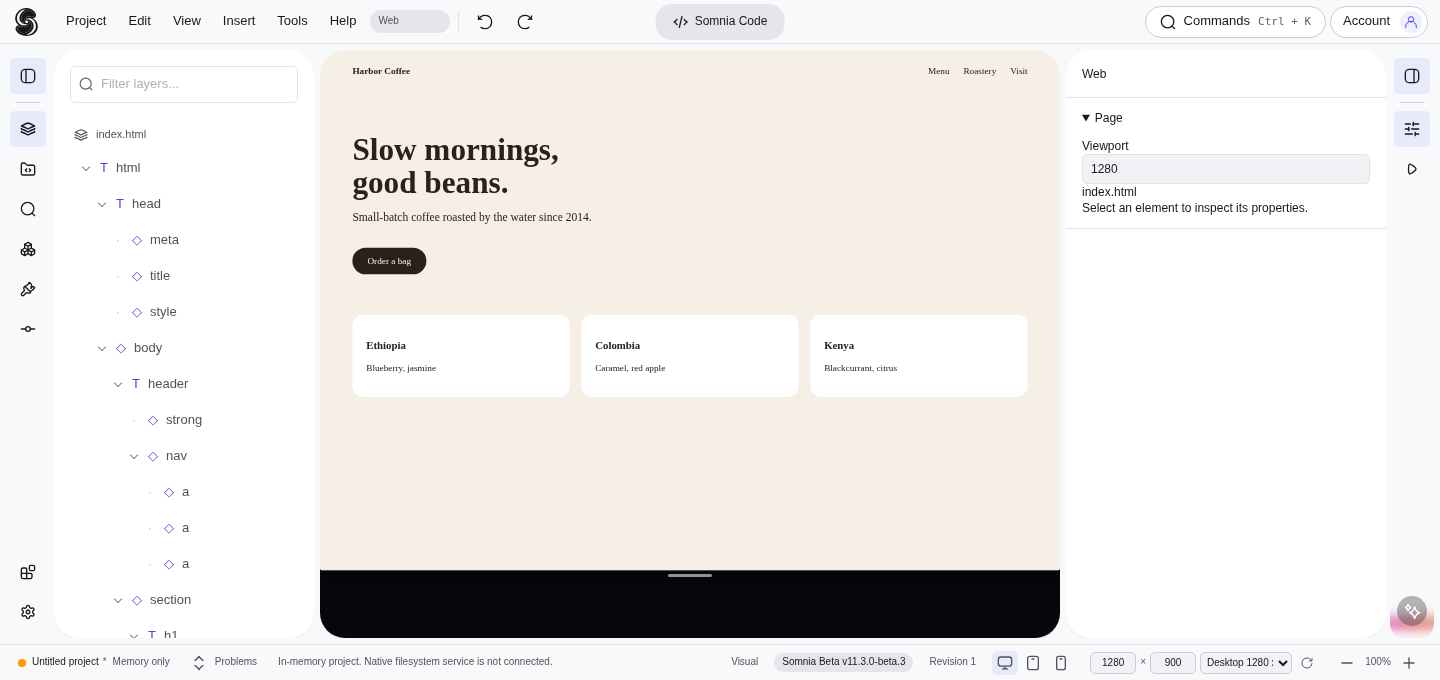
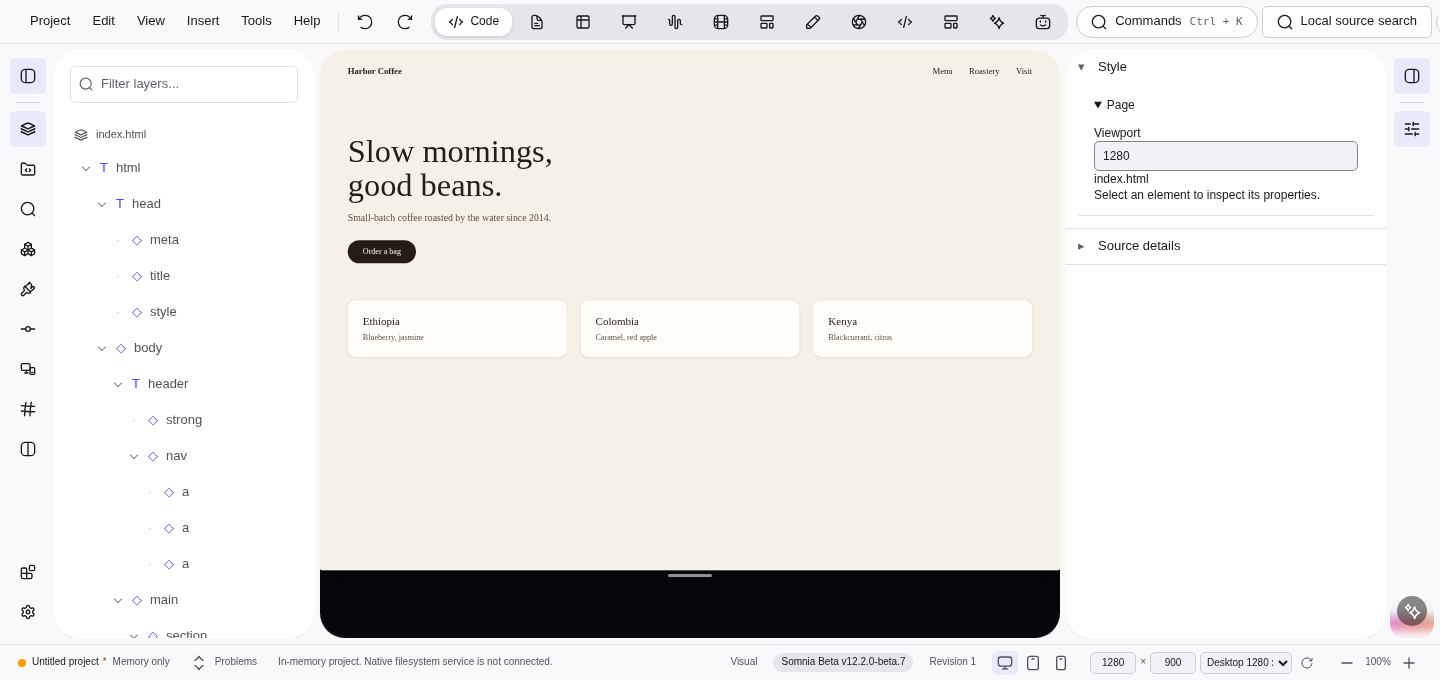
docs: refresh README for v12.2.0-beta.7 (current studio set, fresh tour and screenshots)

diff --git a/README.md b/README.md
@@ -2,24 +2,23 @@
 
 # Somnia
 
-Local-first visual web editor and Dreamweaver successor. Design canvas and code editor on the same source, plus inline editors for images, SVG and PDF. Your files stay on your machine: no account needed, no telemetry. MIT licensed.
+Local-first visual web editor and Dreamweaver successor. Design canvas and code editor on the same source, plus studios for images, vector art, 3D, animation, audio, video and office files. Your files stay on your machine: no account needed, no telemetry. MIT licensed.
 
 ![Somnia tour: design view, split view, command palette, settings](docs/assets/readme/tour.gif)
 
-**Status: beta.** Current pre-release: [v11.3.0-beta.5](https://github.com/philppplik/somnia/releases/tag/v11.3.0-beta.5). It has been checked in a browser against mocked desktop commands and in CI builds, but not on real Windows or macOS desktops yet. Installers are unsigned (SmartScreen warning on Windows, macOS is ad-hoc signed and not notarized).
+**Status: beta.** Current pre-release: [v12.2.0-beta.7](https://github.com/philppplik/somnia/releases/tag/v12.2.0-beta.7). Every release ships from a commit whose full CI matrix is green (frontend e2e, native, Windows, Windows ARM64, macOS, Linux ARM64, CLI). Installers are unsigned for now, so SmartScreen and Gatekeeper can warn. macOS builds are Apple Silicon only.
 
 ## What it does today
 
-- **Design and code on one source.** Edits in either place change the real HTML and CSS, with shared undo. Nothing is regenerated.
-- **Layers, breadcrumbs, inspector, Problems panel** and a command palette (`Ctrl+K`).
+- **Design and code on one source.** Edits in either place change the real HTML and CSS, with shared undo. Nothing is regenerated. Layers, breadcrumbs, inspector, Problems panel and a command palette (`Ctrl+K`).
+- **A studio per craft.** Photos (non-destructive raster editing), Vector (SVG drawing, path booleans, bitmap trace), 3D (models, sculpt, UV tools, GLB export), Animation (keyframes, masks, graphs, GIF/APNG/WebM export), Sound, Video, Documents, Sheets, Slides and an interface builder.
 - **Code editor** with Emmet, auto-close tags, linting, find and replace, Prettier formatting (loaded on demand) and a diff viewer.
-- **Image editor:** inline raster editing with history, layered PhotoCraft documents (WASM), read-only previews for more formats such as TIFF and PSD, batch conversion.
-- **SVG editor:** move, resize, draw, layers and node editing, path booleans, gradients, bitmap trace, snapping, guides, grid, clip and mask.
-- **PDF editor:** work on copies; comments (list, edit, delete), AcroForm field designer (create, place, move, resize, rename, delete). XFA forms stay view-only.
-- **Office preview:** read-only DOCX and XLSX in the file preview.
-- **Settings:** search, a "Modified" view with reset, and per-project overrides in `.somnia/settings.json` (units, image saving, export options).
-- **AI agent (optional):** a native panel that asks before reading or writing each file and shows every change as a preview. OpenRouter and local Ollama models; the GitHub login asks for the `repo` scope to read private repositories and uses it read-only.
-- **Export:** ZIP, folder, single HTML file or Markdown. Themes and an extension SDK (see `docs/extensions/`).
+- **PDF tools:** comments and an AcroForm field designer on copies. XFA forms stay view-only.
+- **Crash-safe sessions.** Documents and Sheets write verified recovery checkpoints while you edit and restore them after a crash. Studios you leave in the background suspend and resume from checkpoints; unsaved work is never evicted silently.
+- **Transcript Hub:** transcribe audio locally with the optional whisper.cpp helper. No cloud fallback.
+- **AI agent (optional):** a native panel that asks before reading or writing each file and shows every change as a preview. OpenRouter, OpenAI, Claude and local Ollama models.
+- **Ship your site:** framework adapters (Vite, Astro, Next, SvelteKit, Nuxt, plain Node) and one-click deploy over SSH/SSL, plus the Somnia CLI for scripting. These are experimental.
+- **Themes and an extension SDK** (see `docs/extensions/`). Export as ZIP, folder, single HTML file or Markdown.
 
 | Design view | Split view |
 | --- | --- |
@@ -27,7 +26,7 @@ Local-first visual web editor and Dreamweaver successor. Design canvas and code 
 | **Command palette** | **Settings** |
 | ![Command palette](docs/assets/readme/03-palette.png) | ![Settings](docs/assets/readme/04-settings.png) |
 
-Screenshots are from the web build with mocked desktop commands.
+Tour and screenshots are real captures from the web build (v12.2.0 beta 7).
 
 Architecture: [docs/ARCHITECTURE.md](docs/ARCHITECTURE.md). Build and release: [docs/BUILD-AND-RELEASE.md](docs/BUILD-AND-RELEASE.md). Roadmap: [docs/ROADMAP.md](docs/ROADMAP.md). Benchmarks: [phase1/notes/BENCHMARKS.md](phase1/notes/BENCHMARKS.md).
 
@@ -37,40 +36,4 @@ Cloud processing requires opt-in. AI changes reach the editor only after review 
 
 ## Download
 
-Get installers from [Releases](https://github.com/philppplik/somnia/releases) (each release lists SHA-256 checksums).
-
-## Repository layout
-
-- `phase1/` - the app (Tauri + web frontend), tests and design notes (`phase1/notes/`)
-- `relay/` - `somnia-relay`, the blind WebSocket relay for collaboration
-- `docs/` - documentation, see [docs/README.md](docs/README.md); `docs/ARCHITECTURE.md` is the technical overview, `docs/extensions/` the extension SDK guide. The project site (`index.html`) also lives here.
-- `proto/` - early prototypes (Phase 0, frozen)
-
-## Develop
-
-```
-cd phase1
-npm ci
-npm run craft:build  # WASM bridges, needs Rust 1.95, the wasm32 target and wasm-bindgen
-npm run dev        # web dev server
-npm run test:core  # unit tests
-npm run bench      # editor-core benchmarks
-npx playwright test
-```
-
-## Contributing
-
-Work in feature branches and open a pull request. CI must be green.
-
-## Code signing policy
-
-Free code signing provided by [SignPath.io](https://signpath.io), certificate by [SignPath Foundation](https://signpath.org).
-
-- **Committers and reviewers:** [Philipp Paulik](https://github.com/philppplik)
-- **Approvers:** [Philipp Paulik](https://github.com/philppplik)
-
-Every release is built from this repository by GitHub Actions and needs manual approval before it is signed.
-
-## License
-
-MIT, Copyright Philipp Paulik. See `LICENSE`.
+Get installers from [Releases](https://github.com/philppplik/somnia/releases): Windows (x64 and ARM64), macOS (Apple Silicon) and Linux (x64 and ARM64), plus CLI archives. Every release lists SHA-256 checksums for each file.
